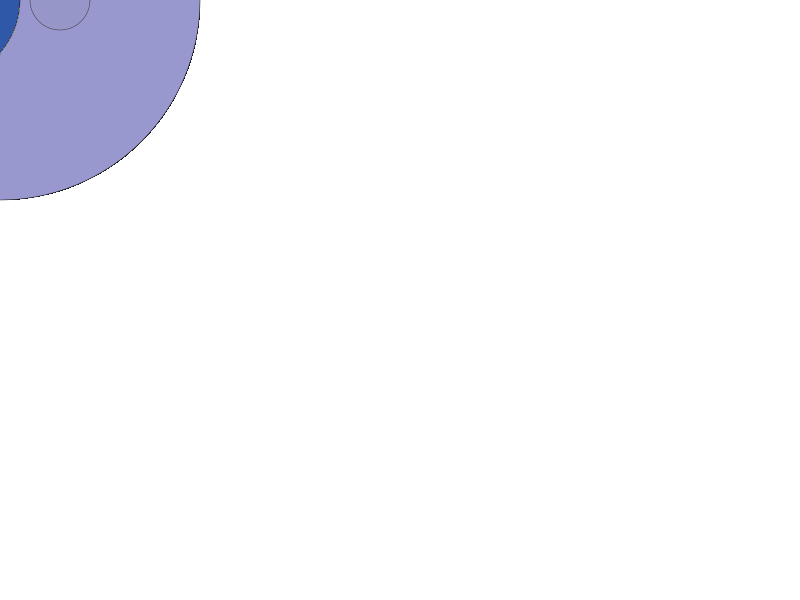
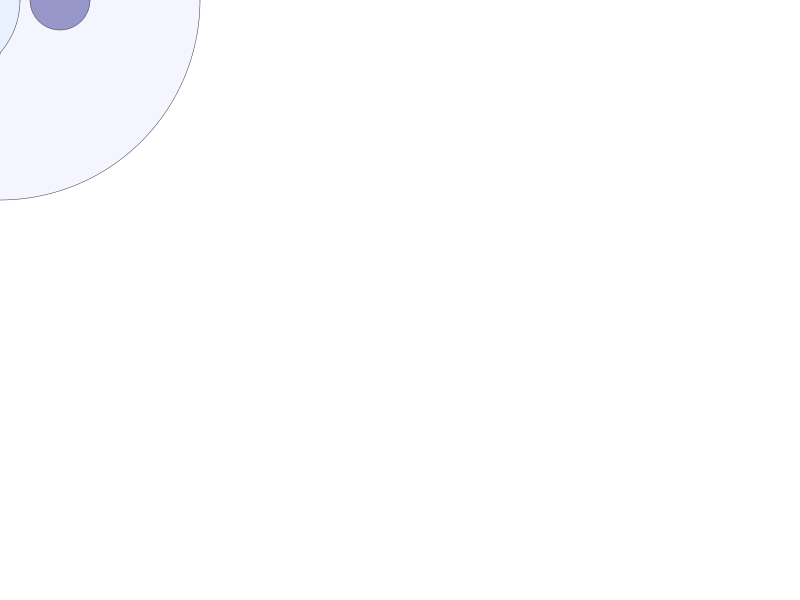
fix: use non-premultiplied alpha for directory fills (#66)
resolveDirFill returned color.RGBA with R/G/B > A, violating the
premultiplied alpha invariant. The gg library passed these values
through unchanged, making directory bubbles render ~10x too bright
in PNG output instead of the intended ~18% transparent tint.

Fix: return color.NRGBA (non-premultiplied) so Go's draw pipeline
correctly premultiplies during compositing. SVG was already correct
as it uses separate fill + fill-opacity attributes.

Closes #66

Changed region(s): [[0.0, 0.0, 0.25, 0.33]]

diff --git a/internal/render/bubbletree.go b/internal/render/bubbletree.go
@@ -103,15 +103,15 @@ func collectBubbleFiles(node bubbletree.BubbleNode) []bubbletree.BubbleNode {
 
 // resolveDirFill returns the fill colour for a directory circle, applying a
 // low alpha so nested circles remain visible through their parents.
-func resolveDirFill(node bubbletree.BubbleNode) color.RGBA {
+// Returns color.NRGBA (non-premultiplied) because we set R/G/B to full-intensity
+// values and rely on Go's draw pipeline to premultiply during compositing.
+func resolveDirFill(node bubbletree.BubbleNode) color.NRGBA {
 	fill := bubbleDefaultDirFill
 	if node.FillColour.A > 0 {
 		fill = node.FillColour
 	}
 
-	fill.A = bubbleDirAlpha
-
-	return fill
+	return color.NRGBA{R: fill.R, G: fill.G, B: fill.B, A: bubbleDirAlpha}
 }
 
 // resolveFileFill returns the solid fill colour for a file circle.
